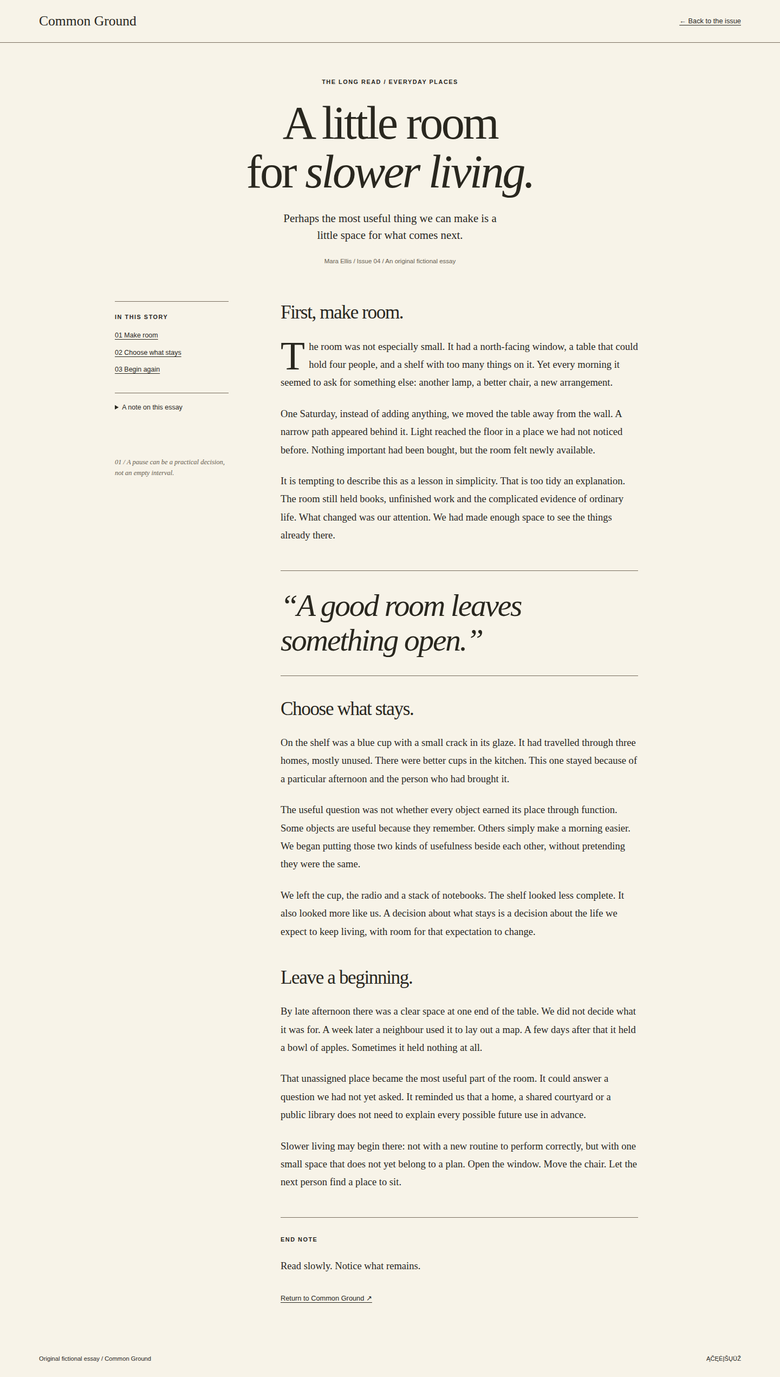
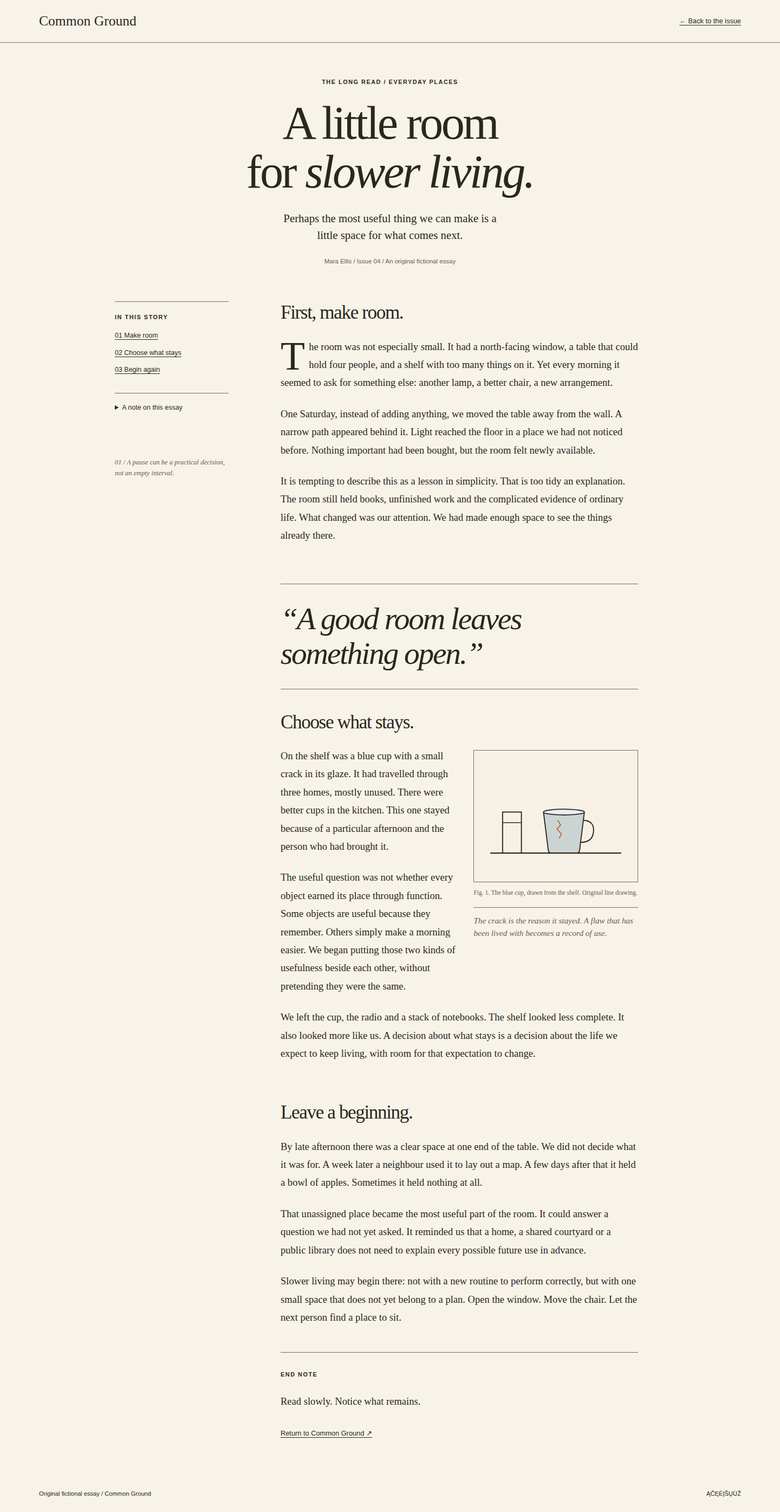
[S45] Pertvarka: Editorial Journal (#92)
* feat(S45): original cup drawing and margin spread for editorial-journal

Claude-Session: https://claude.ai/code/session_01UNVqEgRscSKB9PdVUupPsp

* chore: regenerate canonical previews for editorial-journal

* docs(S45): evidence for editorial-journal redesign

Claude-Session: https://claude.ai/code/session_01UNVqEgRscSKB9PdVUupPsp

---------

diff --git a/styles/editorial-journal/reference/style.css b/styles/editorial-journal/reference/style.css
@@ -1,1 +1,1 @@
-*{box-sizing:border-box}html{scroll-behavior:smooth}body{margin:0;background:var(--color-background);color:var(--color-text);font:1rem/1.65 var(--font-body)}a{color:inherit;text-underline-offset:.25em;transition:color var(--motion-duration-short) var(--motion-easing-standard)}a:hover{color:var(--color-accent)}:focus-visible{outline:3px solid var(--color-focus);outline-offset:5px}.skip{position:absolute;top:0;left:0;transform:translateY(-200%);background:var(--color-background);padding:1rem;z-index:10}.skip:focus{transform:none}h1,h2,p,figure,blockquote{margin:0}h1,h2,blockquote{font-family:var(--font-display);font-weight:400;line-height:1.04;letter-spacing:-.04em}em{font-weight:400}.issue-header{padding:1.8rem 5vw 0}.issue-line{display:flex;justify-content:space-between;font-size:.72rem;letter-spacing:.06em;border-bottom:1px solid var(--color-border);padding-bottom:1rem}.masthead{display:block;text-align:center;font:clamp(3rem,8.5vw,8.8rem)/1.3 var(--font-display);letter-spacing:-.06em;text-decoration:none;padding:.5rem 0}.issue-header nav{display:flex;justify-content:center;gap:3rem;padding:1rem 0;border-top:1px solid var(--color-border);border-bottom:1px solid var(--color-border);font-size:.8rem}.cover{display:grid;grid-template-columns:1.08fr 1fr;gap:5vw;padding:4rem 5vw}.kicker{font-family:var(--font-body);font-size:.68rem;letter-spacing:.14em;font-weight:700;line-height:1.5}.cover h1{font-size:clamp(3.5rem,5.5vw,6rem);margin:2rem 0}.standfirst{font-family:var(--font-display);font-size:1.3rem;line-height:1.5;max-width:40ch}.read-link{display:flex;justify-content:space-between;max-width:330px;border-bottom:1px solid var(--color-border);text-decoration:none;margin:2.5rem 0 1rem;padding-bottom:.5rem;font-size:.85rem}.byline,figcaption{font-size:.72rem;color:var(--color-muted)}.still-life{height:510px;background:var(--color-surface);position:relative;overflow:hidden}.window{position:absolute;width:62%;height:62%;border-radius:50% 50% 0 0;background:var(--color-background);left:20%;top:7%}.table{position:absolute;width:80%;height:6%;background:var(--color-accent);left:5%;top:59%;transform:rotate(-2deg)}.table:after{content:"";display:block;width:5%;height:200px;background:var(--color-accent);margin-left:12%}.vase{position:absolute;width:14%;height:24%;left:30%;top:35%;border:2px solid var(--color-border);border-radius:20% 20% 45% 45%;background:var(--color-background)}.chair{position:absolute;width:30%;height:40%;right:8%;top:51%;border:3px solid var(--color-border);border-radius:45% 45% 0 0}.chair:before{content:"";position:absolute;width:110%;height:8%;background:var(--color-text);top:62%;left:-5%}.floor-line{position:absolute;height:1px;background:var(--color-border);bottom:8%;left:5%;right:5%}figcaption{margin-top:.7rem}.departments{display:grid;grid-template-columns:repeat(3,1fr);gap:3.5rem;margin:1rem 5vw 5rem;border-top:1px solid var(--color-border);padding-top:1.4rem}.departments article+article{border-left:1px solid var(--color-border);padding-left:2rem}.departments h2{font-size:2.3rem;margin:1.2rem 0}.departments p:not(.kicker){font-family:var(--font-display);font-size:1.08rem}.departments a{display:inline-block;margin-top:1.4rem;font-size:.8rem}.editor-letter{margin:0 5vw;padding:2.5rem 0 4rem;border-top:1px solid var(--color-border);display:grid;grid-template-columns:1fr 1.2fr;gap:2rem 5rem}.editor-letter>.kicker{grid-column:1/-1}.editor-letter h2{font-size:clamp(2.8rem,4.5vw,5rem)}.editor-letter div p{font-family:var(--font-display);font-size:1.2rem;margin-bottom:1.2rem}.editor-letter .signature{font-style:italic}.about{background:var(--color-surface);padding:3rem 5vw;display:grid;grid-template-columns:1fr 1.5fr;gap:2rem}.about>p:nth-child(2){font-family:var(--font-display);font-size:1.3rem;max-width:52ch}.about a{grid-column:2;font-size:.85rem}footer{display:flex;justify-content:space-between;gap:1.5rem;flex-wrap:wrap;padding:1.5rem 5vw;font-size:.7rem}.essay-mast{display:flex;justify-content:space-between;align-items:center;padding:1.5rem 5vw;border-bottom:1px solid var(--color-border)}.essay-mast a:first-child{font:1.6rem var(--font-display);text-decoration:none}.essay-mast a:last-child{font-size:.8rem}.essay-header{text-align:center;padding:4rem 5vw}.essay-header h1{font-size:clamp(3rem,6vw,6.5rem);margin:1.5rem 0}.essay-header .standfirst{margin:0 auto 1.5rem}.essay-layout{display:grid;grid-template-columns:210px minmax(0,660px);gap:6rem;max-width:1080px;margin:0 auto;padding:0 2rem 4rem}.margin{font-size:.78rem;border-top:1px solid var(--color-border);padding-top:1.2rem}.margin nav{display:grid;gap:.7rem;margin:1rem 0 2rem}.margin details{border-top:1px solid var(--color-border);padding:1rem 0}.margin summary{cursor:pointer}.margin details p{margin-top:1rem}.margin-note{font-family:var(--font-display);font-style:italic;margin-top:4rem;color:var(--color-muted)}.essay{font:1.16rem/1.8 var(--font-display)}.essay h2{font-size:2.2rem;line-height:1.2;margin:0 0 1.5rem}.essay p{margin-bottom:1.5rem}.essay section{margin-bottom:3rem}.dropcap:first-letter{float:left;font-size:4.6rem;line-height:.85;margin:.2rem .45rem 0 0}.essay blockquote{font-size:clamp(2.4rem,4vw,4rem);font-style:italic;line-height:1.12;border-top:1px solid var(--color-border);border-bottom:1px solid var(--color-border);padding:2rem 0;margin:2.5rem 0}.essay-end{border-top:1px solid var(--color-border);padding-top:2rem}.essay-end a{font:.8rem var(--font-body)}@media(max-width:900px){.cover{gap:2.5rem}.still-life{height:440px}.cover h1{font-size:3.4rem}.departments{gap:1.5rem}.departments article+article{padding-left:1rem}.departments h2{font-size:1.9rem}.essay-layout{grid-template-columns:160px minmax(0,1fr);gap:2.5rem}.editor-letter{gap:2rem}.about{gap:1.5rem}}@media(max-width:600px){.issue-header{padding:1rem 6vw 0}.issue-line{display:block;font-size:.64rem}.issue-line span{display:block}.masthead{font-size:2.7rem;padding:1.2rem 0;line-height:1}.issue-header nav{gap:.7rem;justify-content:space-between;flex-wrap:wrap;font-size:.68rem}.cover{display:block;padding:2rem 6vw}.cover h1{font-size:3.35rem;margin:1.5rem 0}.standfirst{font-size:1.15rem}.cover figure{margin-top:2rem}.still-life{height:350px}.departments{display:block;margin:1rem 6vw 3rem;padding-top:0}.departments article{padding:1.5rem 0}.departments article+article{border-left:0;border-top:1px solid var(--color-border);padding-left:0}.departments h2{font-size:2rem}.editor-letter{display:block;margin:0 6vw;padding:2rem 0}.editor-letter h2{font-size:3rem;margin:1.5rem 0}.about{display:block;padding:2rem 6vw}.about>p:nth-child(2){margin:1.5rem 0;font-size:1.15rem}.essay-mast{padding:1rem 6vw;gap:1rem}.essay-mast a:first-child{font-size:1.2rem}.essay-mast a:last-child{font-size:.68rem}.essay-header{padding:2.5rem 6vw}.essay-header h1{font-size:3.2rem}.essay-layout{display:flex;flex-direction:column;padding:0 6vw 3rem;gap:2rem}.margin{font-size:.8rem}.margin nav{grid-template-columns:repeat(3,1fr);gap:.5rem;margin-bottom:1rem}.margin-note{display:none}.essay{font-size:1.08rem;line-height:1.8}.essay h2{font-size:2rem}.essay blockquote{font-size:2.5rem}footer{padding:1.5rem 6vw}}@media(prefers-reduced-motion:reduce){html{scroll-behavior:auto}*,*::before,*::after{transition:none!important;animation:none!important}}
+*{box-sizing:border-box}html{scroll-behavior:smooth}body{margin:0;background:var(--color-background);color:var(--color-text);font:1rem/1.65 var(--font-body)}a{color:inherit;text-underline-offset:.25em;transition:color var(--motion-duration-short) var(--motion-easing-standard)}a:hover{color:var(--color-accent)}:focus-visible{outline:3px solid var(--color-focus);outline-offset:5px}.skip{position:absolute;top:0;left:0;transform:translateY(-200%);background:var(--color-background);padding:1rem;z-index:10}.skip:focus{transform:none}h1,h2,p,figure,blockquote{margin:0}h1,h2,blockquote{font-family:var(--font-display);font-weight:400;line-height:1.04;letter-spacing:-.04em}em{font-weight:400}.issue-header{padding:1.8rem 5vw 0}.issue-line{display:flex;justify-content:space-between;font-size:.72rem;letter-spacing:.06em;border-bottom:1px solid var(--color-border);padding-bottom:1rem}.masthead{display:block;text-align:center;font:clamp(3rem,8.5vw,8.8rem)/1.3 var(--font-display);letter-spacing:-.06em;text-decoration:none;padding:.5rem 0}.issue-header nav{display:flex;justify-content:center;gap:3rem;padding:1rem 0;border-top:1px solid var(--color-border);border-bottom:1px solid var(--color-border);font-size:.8rem}.cover{display:grid;grid-template-columns:1.08fr 1fr;gap:5vw;padding:4rem 5vw}.kicker{font-family:var(--font-body);font-size:.68rem;letter-spacing:.14em;font-weight:700;line-height:1.5}.cover h1{font-size:clamp(3.5rem,5.5vw,6rem);margin:2rem 0}.standfirst{font-family:var(--font-display);font-size:1.3rem;line-height:1.5;max-width:40ch}.read-link{display:flex;justify-content:space-between;max-width:330px;border-bottom:1px solid var(--color-border);text-decoration:none;margin:2.5rem 0 1rem;padding-bottom:.5rem;font-size:.85rem}.byline,figcaption{font-size:.72rem;color:var(--color-muted)}.still-life{height:510px;background:var(--color-surface);position:relative;overflow:hidden}.window{position:absolute;width:62%;height:62%;border-radius:50% 50% 0 0;background:var(--color-background);left:20%;top:7%}.table{position:absolute;width:80%;height:6%;background:var(--color-accent);left:5%;top:59%;transform:rotate(-2deg)}.table:after{content:"";display:block;width:5%;height:200px;background:var(--color-accent);margin-left:12%}.vase{position:absolute;width:14%;height:24%;left:30%;top:35%;border:2px solid var(--color-border);border-radius:20% 20% 45% 45%;background:var(--color-background)}.chair{position:absolute;width:30%;height:40%;right:8%;top:51%;border:3px solid var(--color-border);border-radius:45% 45% 0 0}.chair:before{content:"";position:absolute;width:110%;height:8%;background:var(--color-text);top:62%;left:-5%}.floor-line{position:absolute;height:1px;background:var(--color-border);bottom:8%;left:5%;right:5%}figcaption{margin-top:.7rem}.dept-art{display:block;width:100%;height:auto;margin:0 0 1.4rem;border:1px solid var(--color-border)}.plate{float:right;width:46%;margin:.4rem 0 1.5rem 2rem}.plate img{display:block;width:100%;height:auto;border:1px solid var(--color-border)}.plate figcaption{margin-top:.6rem}.side-note{font-family:var(--font-display);font-style:italic;font-size:.95rem;line-height:1.5;color:var(--color-muted);margin-top:1rem;border-top:1px solid var(--color-border);padding-top:.8rem}.essay section::after{content:"";display:block;clear:both}.departments{display:grid;grid-template-columns:repeat(3,1fr);gap:3.5rem;margin:1rem 5vw 5rem;border-top:1px solid var(--color-border);padding-top:1.4rem}.departments article+article{border-left:1px solid var(--color-border);padding-left:2rem}.departments h2{font-size:2.3rem;margin:1.2rem 0}.departments p:not(.kicker){font-family:var(--font-display);font-size:1.08rem}.departments a{display:inline-block;margin-top:1.4rem;font-size:.8rem}.editor-letter{margin:0 5vw;padding:2.5rem 0 4rem;border-top:1px solid var(--color-border);display:grid;grid-template-columns:1fr 1.2fr;gap:2rem 5rem}.editor-letter>.kicker{grid-column:1/-1}.editor-letter h2{font-size:clamp(2.8rem,4.5vw,5rem)}.editor-letter div p{font-family:var(--font-display);font-size:1.2rem;margin-bottom:1.2rem}.editor-letter .signature{font-style:italic}.about{background:var(--color-surface);padding:3rem 5vw;display:grid;grid-template-columns:1fr 1.5fr;gap:2rem}.about>p:nth-child(2){font-family:var(--font-display);font-size:1.3rem;max-width:52ch}.about a{grid-column:2;font-size:.85rem}footer{display:flex;justify-content:space-between;gap:1.5rem;flex-wrap:wrap;padding:1.5rem 5vw;font-size:.7rem}.essay-mast{display:flex;justify-content:space-between;align-items:center;padding:1.5rem 5vw;border-bottom:1px solid var(--color-border)}.essay-mast a:first-child{font:1.6rem var(--font-display);text-decoration:none}.essay-mast a:last-child{font-size:.8rem}.essay-header{text-align:center;padding:4rem 5vw}.essay-header h1{font-size:clamp(3rem,6vw,6.5rem);margin:1.5rem 0}.essay-header .standfirst{margin:0 auto 1.5rem}.essay-layout{display:grid;grid-template-columns:210px minmax(0,660px);gap:6rem;max-width:1080px;margin:0 auto;padding:0 2rem 4rem}.margin{font-size:.78rem;border-top:1px solid var(--color-border);padding-top:1.2rem}.margin nav{display:grid;gap:.7rem;margin:1rem 0 2rem}.margin details{border-top:1px solid var(--color-border);padding:1rem 0}.margin summary{cursor:pointer}.margin details p{margin-top:1rem}.margin-note{font-family:var(--font-display);font-style:italic;margin-top:4rem;color:var(--color-muted)}.essay{font:1.16rem/1.8 var(--font-display)}.essay h2{font-size:2.2rem;line-height:1.2;margin:0 0 1.5rem}.essay p{margin-bottom:1.5rem}.essay section{margin-bottom:3rem}.dropcap:first-letter{float:left;font-size:4.6rem;line-height:.85;margin:.2rem .45rem 0 0}.essay blockquote{font-size:clamp(2.4rem,4vw,4rem);font-style:italic;line-height:1.12;border-top:1px solid var(--color-border);border-bottom:1px solid var(--color-border);padding:2rem 0;margin:2.5rem 0}.essay-end{border-top:1px solid var(--color-border);padding-top:2rem}.essay-end a{font:.8rem var(--font-body)}@media(max-width:900px){.cover{gap:2.5rem}.still-life{height:440px}.cover h1{font-size:3.4rem}.departments{gap:1.5rem}.departments article+article{padding-left:1rem}.departments h2{font-size:1.9rem}.essay-layout{grid-template-columns:160px minmax(0,1fr);gap:2.5rem}.editor-letter{gap:2rem}.about{gap:1.5rem}}@media(max-width:600px){.issue-header{padding:1rem 6vw 0}.issue-line{display:block;font-size:.64rem}.issue-line span{display:block}.masthead{font-size:2.7rem;padding:1.2rem 0;line-height:1}.issue-header nav{gap:.7rem;justify-content:space-between;flex-wrap:wrap;font-size:.68rem}.cover{display:block;padding:2rem 6vw}.cover h1{font-size:3.35rem;margin:1.5rem 0}.standfirst{font-size:1.15rem}.cover figure{margin-top:2rem}.still-life{height:350px}.departments{display:block;margin:1rem 6vw 3rem;padding-top:0}.departments article{padding:1.5rem 0}.departments article+article{border-left:0;border-top:1px solid var(--color-border);padding-left:0}.departments h2{font-size:2rem}.editor-letter{display:block;margin:0 6vw;padding:2rem 0}.editor-letter h2{font-size:3rem;margin:1.5rem 0}.about{display:block;padding:2rem 6vw}.about>p:nth-child(2){margin:1.5rem 0;font-size:1.15rem}.essay-mast{padding:1rem 6vw;gap:1rem}.essay-mast a:first-child{font-size:1.2rem}.essay-mast a:last-child{font-size:.68rem}.essay-header{padding:2.5rem 6vw}.essay-header h1{font-size:3.2rem}.essay-layout{display:flex;flex-direction:column;padding:0 6vw 3rem;gap:2rem}.margin{font-size:.8rem}.margin nav{grid-template-columns:repeat(3,1fr);gap:.5rem;margin-bottom:1rem}.margin-note{display:none}.essay{font-size:1.08rem;line-height:1.8}.essay h2{font-size:2rem}.essay blockquote{font-size:2.5rem}.essay .plate{float:none;width:100%;margin:0 0 2rem}footer{padding:1.5rem 6vw}}@media(prefers-reduced-motion:reduce){html{scroll-behavior:auto}*,*::before,*::after{transition:none!important;animation:none!important}}

diff --git a/styles/editorial-journal/reference/alternate.html b/styles/editorial-journal/reference/alternate.html
@@ -1,2 +1,2 @@
 <!doctype html>
-<html lang="en"><head><meta charset="utf-8"><meta name="viewport" content="width=device-width,initial-scale=1"><meta name="description" content="Original fictional demonstration for Web Style Atlas."><title>A little room — Common Ground</title><link rel="stylesheet" href="tokens.css"><link rel="stylesheet" href="style.css"></head><body><a class="skip" href="#main">Skip to content</a><header class="essay-mast"><a href="index.html">Common Ground</a><a href="index.html#stories">← Back to the issue</a></header><main id="main"><header class="essay-header"><p class="kicker">THE LONG READ / EVERYDAY PLACES</p><h1>A little room<br>for <em>slower living.</em></h1><p class="standfirst">Perhaps the most useful thing we can make is a little space for what comes next.</p><p class="byline">Mara Ellis / Issue 04 / An original fictional essay</p></header><div class="essay-layout"><aside class="margin"><p class="kicker">IN THIS STORY</p><nav aria-label="Article contents"><a href="#room">01 Make room</a><a href="#keep">02 Choose what stays</a><a href="#begin">03 Begin again</a></nav><details><summary>A note on this essay</summary><p>This is original demonstration writing, not reported research. The people and publication are fictional.</p></details><p class="margin-note">01 / A pause can be a practical decision, not an empty interval.</p></aside><article class="essay"><section id="room"><h2>First, make room.</h2><p class="dropcap">The room was not especially small. It had a north-facing window, a table that could hold four people, and a shelf with too many things on it. Yet every morning it seemed to ask for something else: another lamp, a better chair, a new arrangement.</p><p>One Saturday, instead of adding anything, we moved the table away from the wall. A narrow path appeared behind it. Light reached the floor in a place we had not noticed before. Nothing important had been bought, but the room felt newly available.</p><p>It is tempting to describe this as a lesson in simplicity. That is too tidy an explanation. The room still held books, unfinished work and the complicated evidence of ordinary life. What changed was our attention. We had made enough space to see the things already there.</p></section><blockquote>“A good room leaves<br>something open.”</blockquote><section id="keep"><h2>Choose what stays.</h2><p>On the shelf was a blue cup with a small crack in its glaze. It had travelled through three homes, mostly unused. There were better cups in the kitchen. This one stayed because of a particular afternoon and the person who had brought it.</p><p>The useful question was not whether every object earned its place through function. Some objects are useful because they remember. Others simply make a morning easier. We began putting those two kinds of usefulness beside each other, without pretending they were the same.</p><p>We left the cup, the radio and a stack of notebooks. The shelf looked less complete. It also looked more like us. A decision about what stays is a decision about the life we expect to keep living, with room for that expectation to change.</p></section><section id="begin"><h2>Leave a beginning.</h2><p>By late afternoon there was a clear space at one end of the table. We did not decide what it was for. A week later a neighbour used it to lay out a map. A few days after that it held a bowl of apples. Sometimes it held nothing at all.</p><p>That unassigned place became the most useful part of the room. It could answer a question we had not yet asked. It reminded us that a home, a shared courtyard or a public library does not need to explain every possible future use in advance.</p><p>Slower living may begin there: not with a new routine to perform correctly, but with one small space that does not yet belong to a plan. Open the window. Move the chair. Let the next person find a place to sit.</p></section><div class="essay-end"><p class="kicker">END NOTE</p><p>Read slowly. Notice what remains.</p><a href="index.html">Return to Common Ground ↗</a></div></article></div></main><footer><span>Original fictional essay / Common Ground</span><span lang="lt">ĄČĘĖĮŠŲŪŽ</span></footer></body></html>
+<html lang="en"><head><meta charset="utf-8"><meta name="viewport" content="width=device-width,initial-scale=1"><meta name="description" content="Original fictional demonstration for Web Style Atlas."><title>A little room — Common Ground</title><link rel="stylesheet" href="tokens.css"><link rel="stylesheet" href="style.css"></head><body><a class="skip" href="#main">Skip to content</a><header class="essay-mast"><a href="index.html">Common Ground</a><a href="index.html#stories">← Back to the issue</a></header><main id="main"><header class="essay-header"><p class="kicker">THE LONG READ / EVERYDAY PLACES</p><h1>A little room<br>for <em>slower living.</em></h1><p class="standfirst">Perhaps the most useful thing we can make is a little space for what comes next.</p><p class="byline">Mara Ellis / Issue 04 / An original fictional essay</p></header><div class="essay-layout"><aside class="margin"><p class="kicker">IN THIS STORY</p><nav aria-label="Article contents"><a href="#room">01 Make room</a><a href="#keep">02 Choose what stays</a><a href="#begin">03 Begin again</a></nav><details><summary>A note on this essay</summary><p>This is original demonstration writing, not reported research. The people and publication are fictional.</p></details><p class="margin-note">01 / A pause can be a practical decision, not an empty interval.</p></aside><article class="essay"><section id="room"><h2>First, make room.</h2><p class="dropcap">The room was not especially small. It had a north-facing window, a table that could hold four people, and a shelf with too many things on it. Yet every morning it seemed to ask for something else: another lamp, a better chair, a new arrangement.</p><p>One Saturday, instead of adding anything, we moved the table away from the wall. A narrow path appeared behind it. Light reached the floor in a place we had not noticed before. Nothing important had been bought, but the room felt newly available.</p><p>It is tempting to describe this as a lesson in simplicity. That is too tidy an explanation. The room still held books, unfinished work and the complicated evidence of ordinary life. What changed was our attention. We had made enough space to see the things already there.</p></section><blockquote>“A good room leaves<br>something open.”</blockquote><section id="keep"><h2>Choose what stays.</h2><figure class="plate"><img src="cup.svg" width="400" height="320" alt="Line drawing of the chipped blue cup on the shelf, with its crack drawn as a zigzag line"><figcaption>Fig. 1. The blue cup, drawn from the shelf. Original line drawing.</figcaption><p class="side-note">The crack is the reason it stayed. A flaw that has been lived with becomes a record of use.</p></figure><p>On the shelf was a blue cup with a small crack in its glaze. It had travelled through three homes, mostly unused. There were better cups in the kitchen. This one stayed because of a particular afternoon and the person who had brought it.</p><p>The useful question was not whether every object earned its place through function. Some objects are useful because they remember. Others simply make a morning easier. We began putting those two kinds of usefulness beside each other, without pretending they were the same.</p><p>We left the cup, the radio and a stack of notebooks. The shelf looked less complete. It also looked more like us. A decision about what stays is a decision about the life we expect to keep living, with room for that expectation to change.</p></section><section id="begin"><h2>Leave a beginning.</h2><p>By late afternoon there was a clear space at one end of the table. We did not decide what it was for. A week later a neighbour used it to lay out a map. A few days after that it held a bowl of apples. Sometimes it held nothing at all.</p><p>That unassigned place became the most useful part of the room. It could answer a question we had not yet asked. It reminded us that a home, a shared courtyard or a public library does not need to explain every possible future use in advance.</p><p>Slower living may begin there: not with a new routine to perform correctly, but with one small space that does not yet belong to a plan. Open the window. Move the chair. Let the next person find a place to sit.</p></section><div class="essay-end"><p class="kicker">END NOTE</p><p>Read slowly. Notice what remains.</p><a href="index.html">Return to Common Ground ↗</a></div></article></div></main><footer><span>Original fictional essay / Common Ground</span><span lang="lt">ĄČĘĖĮŠŲŪŽ</span></footer></body></html>

diff --git a/styles/editorial-journal/reference/index.html b/styles/editorial-journal/reference/index.html
@@ -1,2 +1,2 @@
 <!doctype html>
-<html lang="en"><head><meta charset="utf-8"><meta name="viewport" content="width=device-width,initial-scale=1"><meta name="description" content="Original fictional demonstration for Web Style Atlas."><title>Common Ground — Editorial Journal</title><link rel="stylesheet" href="tokens.css"><link rel="stylesheet" href="style.css"></head><body><a class="skip" href="#main">Skip to content</a><header class="issue-header"><div class="issue-line"><span>An independent journal of everyday places</span><span>Issue 04 / Autumn 2026</span></div><a href="index.html" class="masthead">Common Ground</a><nav aria-label="Departments"><a href="#stories">Stories</a><a href="#letter">Observations</a><a href="alternate.html">The long read</a><a href="#about">About the journal</a></nav></header><main id="main"><section class="cover"><div class="cover-copy"><p class="kicker">THE ART OF EVERYDAY</p><h1>A little room<br>for <em>slower living.</em></h1><p class="standfirst">What happens when we stop filling every corner, and begin noticing what is already there?</p><a class="read-link" href="alternate.html">Read the cover story <span>↗</span></a><p class="byline">Words by Mara Ellis / 8 minute read</p></div><figure><div class="still-life" aria-hidden="true"><div class="window"></div><div class="vase"></div><div class="table"></div><div class="chair"></div><div class="floor-line"></div></div><figcaption>A place to pause. Original CSS illustration.</figcaption></figure></section><section id="stories" class="departments"><article><p class="kicker">01 / OBJECTS</p><h2>The things<br>we choose to keep.</h2><p>A chipped cup, a borrowed book, a chair that has moved with us. An inventory of quiet companions.</p><a href="alternate.html#keep">Read the observation ↗</a></article><article><p class="kicker">02 / PLACES</p><h2>Between the city<br>and the garden.</h2><p>One shared courtyard, six neighbours, and the small rituals that turn a passage into a place.</p><a href="alternate.html#room">Visit the courtyard ↗</a></article><article><p class="kicker">03 / PRACTICE</p><h2>In praise of<br>the unfinished.</h2><p>On leaving a little space for change, and finding a different kind of completeness.</p><a href="alternate.html#begin">Continue reading ↗</a></article></section><section id="letter" class="editor-letter"><p class="kicker">A LETTER FROM THE EDITOR</p><h2>Not everything<br>needs to be <em>more.</em></h2><div><p>This issue began with a question about space. Not square metres, but the kind of room we make for each other, for a thought, for an ordinary afternoon.</p><p>We hope these stories offer a small pause. Read slowly. Leave the window open.</p><p class="signature">Mara &amp; the Common Ground team</p></div></section><section id="about" class="about"><p class="kicker">A JOURNAL WORTH RETURNING TO</p><p>Common Ground is a fictional independent publication. These original demonstration stories explore the spaces between people, objects and everyday life.</p><a href="alternate.html">Begin with the long read ↗</a></section></main><footer><span>Common Ground / Web Style Atlas demonstration</span><span lang="lt">ĄČĘĖĮŠŲŪŽ ąčęėįšųūž</span><span>Made for thoughtful reading.</span></footer></body></html>
+<html lang="en"><head><meta charset="utf-8"><meta name="viewport" content="width=device-width,initial-scale=1"><meta name="description" content="Original fictional demonstration for Web Style Atlas."><title>Common Ground — Editorial Journal</title><link rel="stylesheet" href="tokens.css"><link rel="stylesheet" href="style.css"></head><body><a class="skip" href="#main">Skip to content</a><header class="issue-header"><div class="issue-line"><span>An independent journal of everyday places</span><span>Issue 04 / Autumn 2026</span></div><a href="index.html" class="masthead">Common Ground</a><nav aria-label="Departments"><a href="#stories">Stories</a><a href="#letter">Observations</a><a href="alternate.html">The long read</a><a href="#about">About the journal</a></nav></header><main id="main"><section class="cover"><div class="cover-copy"><p class="kicker">THE ART OF EVERYDAY</p><h1>A little room<br>for <em>slower living.</em></h1><p class="standfirst">What happens when we stop filling every corner, and begin noticing what is already there?</p><a class="read-link" href="alternate.html">Read the cover story <span>↗</span></a><p class="byline">Words by Mara Ellis / 8 minute read</p></div><figure><div class="still-life" aria-hidden="true"><div class="window"></div><div class="vase"></div><div class="table"></div><div class="chair"></div><div class="floor-line"></div></div><figcaption>A place to pause. Original CSS illustration.</figcaption></figure></section><section id="stories" class="departments"><article><img class="dept-art" src="cup.svg" width="400" height="320" alt="Line drawing of a chipped blue cup standing on a shelf beside a book"><p class="kicker">01 / OBJECTS</p><h2>The things<br>we choose to keep.</h2><p>A chipped cup, a borrowed book, a chair that has moved with us. An inventory of quiet companions.</p><a href="alternate.html#keep">Read the observation ↗</a></article><article><p class="kicker">02 / PLACES</p><h2>Between the city<br>and the garden.</h2><p>One shared courtyard, six neighbours, and the small rituals that turn a passage into a place.</p><a href="alternate.html#room">Visit the courtyard ↗</a></article><article><p class="kicker">03 / PRACTICE</p><h2>In praise of<br>the unfinished.</h2><p>On leaving a little space for change, and finding a different kind of completeness.</p><a href="alternate.html#begin">Continue reading ↗</a></article></section><section id="letter" class="editor-letter"><p class="kicker">A LETTER FROM THE EDITOR</p><h2>Not everything<br>needs to be <em>more.</em></h2><div><p>This issue began with a question about space. Not square metres, but the kind of room we make for each other, for a thought, for an ordinary afternoon.</p><p>We hope these stories offer a small pause. Read slowly. Leave the window open.</p><p class="signature">Mara &amp; the Common Ground team</p></div></section><section id="about" class="about"><p class="kicker">A JOURNAL WORTH RETURNING TO</p><p>Common Ground is a fictional independent publication. These original demonstration stories explore the spaces between people, objects and everyday life.</p><a href="alternate.html">Begin with the long read ↗</a></section></main><footer><span>Common Ground / Web Style Atlas demonstration</span><span lang="lt">ĄČĘĖĮŠŲŪŽ ąčęėįšųūž</span><span>Made for thoughtful reading.</span></footer></body></html>

diff --git a/styles/editorial-journal/style.md b/styles/editorial-journal/style.md
@@ -11,7 +11,7 @@ density: "balanced"
 image_dependency: "low"
 motion_level: "subtle"
 complexity: "low"
-signature: {"composition": "Literary masthead and unequal cover columns; narrow essay measure with a note margin.", "typography": "Georgia serif headlines and reading text with quiet sans-serif metadata.", "navigation": "Publication departments in A; issue return and article contents in B.", "content_rhythm": "Cover, departments and editor letter versus continuous argument and pull quotation.", "imagery": "A static original CSS still-life, paired with a descriptive caption.", "color_and_material": "Ivory paper, deep ink, muted olive and restrained editorial rules.", "interaction": "Underlined local story links and native reading-note disclosure.", "motion": "Short color transitions only; reading remains still."}
+signature: {"composition": "Literary masthead and unequal cover columns; narrow essay measure with a note margin.", "typography": "Georgia serif headlines and reading text with quiet sans-serif metadata.", "navigation": "Publication departments in A; issue return and article contents in B.", "content_rhythm": "Cover, departments and editor letter versus continuous argument and pull quotation.", "imagery": "An original CSS still-life on the cover and an original SVG line drawing of a cup in the department column and the essay.", "color_and_material": "Ivory paper, deep ink, muted olive and restrained editorial rules.", "interaction": "Underlined local story links and native reading-note disclosure.", "motion": "Short color transitions only; reading remains still."}
 status: "ready"
 ---
 
@@ -19,7 +19,7 @@ status: "ready"
 
 ## Intent
 
-Editorial Journal is a reading-led direction for a small independent publication. The fictional Common Ground journal explores ordinary spaces and the people who care for them. It invites a visitor to read one substantial story rather than scan an interchangeable product pitch. Its character comes from a bookish masthead, a strong serif voice, quiet section labels and deliberate changes in reading measure. This direction is useful for essays, cultural publishing and reflective studio writing, especially when there is more to say than a slogan.
+Editorial Journal is a reading-led direction for a small independent publication. The fictional Common Ground journal explores ordinary spaces and the people who care for them. It invites a visitor to read one substantial story rather than scan an interchangeable product pitch. Its character comes from a bookish masthead, a strong serif voice, quiet section labels and deliberate changes in reading measure. This direction is useful for essays, cultural publishing and reflective studio writing.
 
 ## Signature
 
@@ -35,15 +35,15 @@ Warm ivory supports long reading sessions, dark brown-black carries the text, an
 
 ## Layout A
 
-Start with an issue line, then an unusually large centred masthead and a short horizontal department navigation. The cover story uses an asymmetric two-column arrangement: a literary title and standfirst on one side, a large original CSS still-life on the other. A small caption anchors the illustration. Three story teasers follow as ruled editorial columns with different category labels. Finish with an editor letter, a subscription-purpose note that makes no false form promise, and a publication colophon. Every story link goes to the working alternate essay.
+Start with an issue line, then an unusually large centred masthead and a short horizontal department navigation. The cover story uses an asymmetric two-column arrangement: a literary title and standfirst on one side, a large original CSS still-life on the other. A small caption anchors the illustration. Three story teasers follow as ruled editorial columns with different category labels. The first column carries a small original cup drawing as its visual anchor. Finish with an editor letter, a subscription-purpose note that makes no false form promise, and a publication colophon. Every story link goes to the working alternate essay.
 
 ## Layout B
 
-Begin with a compact publication mark and a return link instead of repeating the giant masthead. Centre the article title and a short standfirst above the reading area. The main column moves through three titled sections, an inset quotation and a closing observation. A narrow margin carries numbered notes and a native disclosure with reading context. On wide screens the margin sits beside the corresponding argument. On mobile it enters the normal reading order after the main introduction. This composition feels like an essay rather than an issue archive.
+Begin with a compact publication mark and a return link instead of repeating the giant masthead. Centre the article title and a short standfirst above the reading area. The main column moves through three titled sections, an inset quotation and a closing observation. The objects section floats the cup drawing beside its text with a short side note; on mobile it takes full width. A narrow margin carries numbered notes and a native disclosure with reading context. On wide screens the margin sits beside the corresponding argument. On mobile it enters the normal reading order after the main introduction.
 
 ## Imagery
 
-The cover still-life is original CSS: a pale circular window, an olive tabletop and an outlined chair. It is not a placeholder photograph or borrowed editorial image. Its purpose is to echo the story about making space, and a nearby caption identifies it as an illustration. The essay works without an image because its primary material is language. Replacements can use rights-cleared editorial illustrations or photographs, but they need descriptive captions, adequate local resolution and explicit asset provenance before public redistribution.
+The cover still-life is original CSS: a pale circular window, an olive tabletop and an outlined chair. It is not a placeholder photograph or borrowed editorial image. A nearby caption identifies it as an illustration. The essay works without an image because its primary material is language. The blue cup is an original SVG drawing (`reference/cup.svg`) used in two places, so it needs no rights record. Replacements need descriptive captions and explicit provenance before redistribution.
 
 ## Navigation and interaction
 
@@ -67,7 +67,7 @@ Replace the fictional essays with a real publication issue and an actual long-fo
 
 ## Avoid
 
-1. Do not replace the serif reading voice with an oversized app-dashboard font; the literary hierarchy matters. 2. Do not box every teaser in a rounded card; separators and columns establish editorial rhythm. 3. Do not place pale text over a paper-colored surface; tactile mood does not excuse unreadable type.
+1. Do not replace the serif reading voice with an oversized app-dashboard font; the literary hierarchy matters. 2. Do not set three serif teasers as a text-only band; anchor the row with an illustration or photograph. 3. Do not box the teasers in beige cards with serif headings; separators and columns establish editorial rhythm.
 
 ## Closest styles
 

diff --git a/docs/evidence/S45.md b/docs/evidence/S45.md
@@ -1,0 +1,65 @@
+# S45 — įrodymai: Editorial Journal (pertvarka)
+
+Autorius: Claude Haiku 5.5 / session-S45. Šaka `task/s45-editorial-journal`.
+
+## Kas pakeista
+
+- Originali iliustracija: `reference/cup.svg` – originali linijinė mėlynos puodelio su įtrūkimu ir lentyna piešinys. Nėra trečiųjų šalių turinio, todėl teisių įrašas nereikalingas.
+- A variantas (`reference/index.html`): piešinys įdėtas į pirmą skyrių „01 / OBJECTS“. Dabar teaserių eilutės pirmoji kolonėlė turi vizualinį inkarą, o ne tik tekstą.
+- B variantas (`reference/alternate.html`): skyriuje „Choose what stays“ piešinys pakabintas dešinėje (float) su trumpa šonine pastaba apie įtrūkimą; mobiliame plotyje piešinys užima visą plotį virš pastraipos. Tai redakcinis spread: vaizdas, antraštė ir pastaba veikia kartu.
+- `style.md` ir `layouts.json` atnaujinti (iliustracija, spread, trys anti-pattern'ai).
+- Nieko nekeista kituose stiliuose.
+
+## Komandos ir rezultatai
+
+| Komanda | Rezultatas |
+|---|---|
+| `npm run validate` | PASS |
+| `npm run build -- --style editorial-journal` | PASS (39 stiliai, 3 išvestys, 39 ready) |
+| `node --test tests/*.test.mjs` | 87/87 PASS |
+| Kanoninis workflow `previews.yml` (ref `main`, branch `task/s45-editorial-journal`, style `editorial-journal`), run `39821639434` | success; bot commit `f8ccafc` regeneravo keturis PNG ir `catalog/previews-manifest.json`. Tame pačiame žingsnyje vykdomas `npm run check -- --style "$STYLE"` |
+
+## Keturių kanoninių PNG peržiūra
+
+Peržiūrėta `preview.png`, `preview-mobile.png`, `preview-alt.png`, `preview-alt-mobile.png` po kanoninio paleidimo `f8ccafc`.
+
+- A desktop: viršelis su CSS stilleven ir paantrašte; trys teaseriai, pirmasis su mėlynu puodeliu; redakcinis laiškas ir colophon. Vizualinis inkaras matomas, bet mažas.
+- A mobile: piešinys virš „01 / OBJECTS“ viso pločio, teaseriai eina viena eile; skaitymas nekliudomas.
+- B desktop: float piešinys su „Fig. 1“ ir šonine pastaba veikia greta pastraipų; marginalija kairėje išlieka.
+- B mobile: piešinys pilno pločio virš pastraipos, pastaba po jo, skaitymo eilė nepažeista.
+
+## Rubrika (`core/quality-rubric.md`)
+
+Artimiausias kaimynas, palygintas su tos pačios peržiūros PNG: `newspaper-ledger` (laikraščio pirmasis puslapis, plano diagrama, 1/2/1 brief juosta su grafiku, duomenų analizė).
+
+| Kriterijus | Balas | Priežastis |
+|---|---|---|
+| Atpažinimas | 2 | Literatūrinis masthead, serifinės antraštės su kursyvu, margin pastabos, CSS stilleven, redakcinis laiškas – visi matomi A ir B. |
+| Skirtumas nuo kaimyno | 2 | Newspaper Ledger: lyderis su plano diagrama ir grafiku, brief juosta su duomenimis, analizės lentelė. Editorial Journal: viršelis su stilleven ir esė, teaseriai be duomenų, esė su margin pastaba ir float spread. Trys skirtumai: kompozicija (viršelis vs lyderis su diagrama), turinio ritmas (esė vs duomenų juosta), vizualus tipas (stilleven/piešinys vs plano ir grafiko vizualai). |
+| A/B skirtumas | 2 | A – viršelio istorija su teaseriais; B – ilgas esė su marginalija ir float piešiniu. Skirtinga kompozicija ir skaitymo užduotis, bendras literatūrinis parašas. |
+| Hierarchija | 2 | Masthead, kicker, h1 su kursyvu, standfirst, teaserių kategorijos, „Fig. 1“ antraštė ir šoninė pastaba turi aiškius vaidmenis. |
+| Mobile | 2 | Piešinys ir teaseriai perstatyti sąmoningai; skaitymo eilė ir valdikliai veikia 390 px plotyje. |
+| Adaptability | 2 | `style.md` nurodo, kaip pakeisti piešinį rights-cleared nuotrauka su aprašymu ir provenance, o spread išlieka tuo pačiu. |
+
+**Iš viso 12/12**, be nulio; atpažinimas ir skirtumas nuo kaimyno – 2.
+
+Vertinimą atliko šios užduoties vykdytojas, ne nepriklausomas peržiūrėtojas.
+
+## Invariantai (3–5)
+
+1. Serifinė antraštė su kursyvo akcentu ir sans-serif metaduomenys (kicker, byline).
+2. Viršelis ar esė: vienas pagrindinis pasakojimas, o ne produktų tinklelis.
+3. Vienas vizualinis inkaras teaserių eilutėje ir vienas float spread esė viduje.
+4. Marginalijos ir šoninės pastabos yra skaitymo dalis, ne dekoratyvus šalutinis turinys.
+
+## Anti-pattern'ai (tiksliai 3)
+
+1. Beige kortelės su serifine antrašte kaip pagrindinis teaserių blokas.
+2. Trijų kolonų teaserių juosta be jokio vizualo.
+3. Vaizdas, įdėtas be aprašymo, provenance ar ryšio su tekstu.
+
+## Apribojimai
+
+- A teaserių eilutės 2 ir 3 kolonėlės lieka tik tekstu; vizualinis inkaras yra tik pirmoje kolonėlėje, todėl rubrikos „Hierarchija“ ir „Atpažinimas“ remiasi viršeliu ir esė.
+- Piešinys mažas (400 × 320 SVG); jis nėra fotografija ar pilnaverčė iliustracija.
+- Automatiniai patikrinimai nėra pilnas WCAG patikrinimas.
